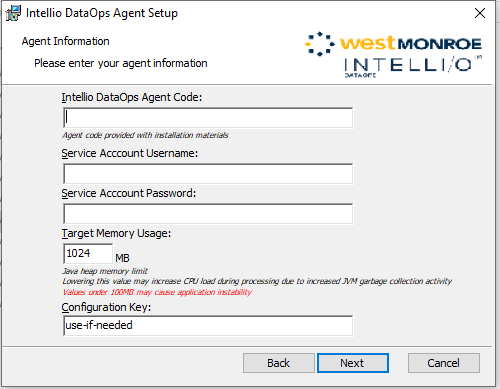
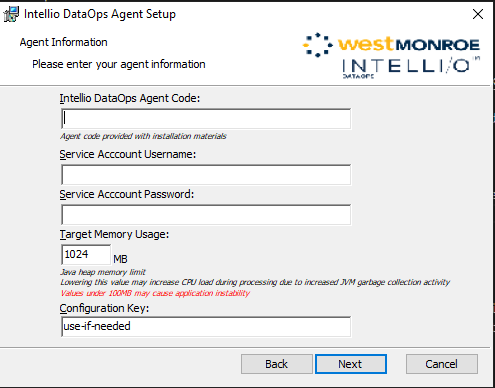
GitBook: [master] one page and 2 assets modified

Changed region(s): [[0.0, 0.0, 1.0, 1.0], [0.0606, 0.1546, 0.4242, 0.1856]]

diff --git a/deployment/installing-a-new-agent.md b/deployment/installing-a-new-agent.md
@@ -67,7 +67,7 @@ Download the appropriate version of the MSI installer. Run the installer and fil
 
 A specific Intellio DataOps **Agent Code** will be required, and this is the **Agent Code** that was configured in the DataOps UI. The windows username and password to run the service must also be entered. Do not alter the configuration key unless directed to by a DataOps team member. 
 
-![Agent Setup Screen 1](../.gitbook/assets/image%20%28190%29.png)
+![Agent Setup Screen 1](../.gitbook/assets/image%20%28191%29.png)
 
 If a second DataOps agent is being installed on the same server, the port will need to be altered so both agents are not running on the same port. If this is the first DataOps agent, then the port should be left as the default value of 25530.
 
